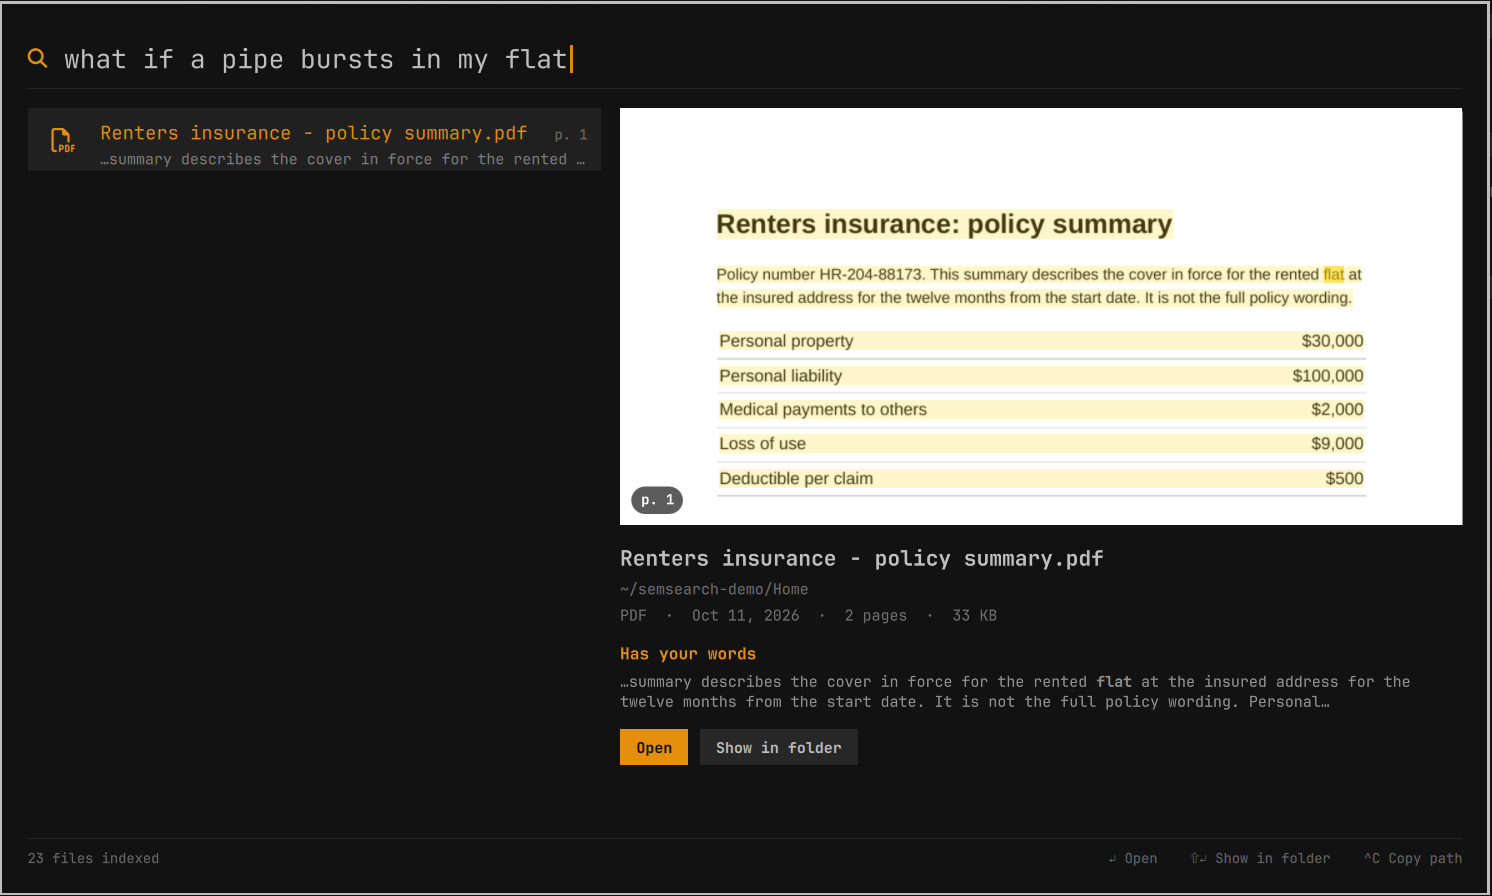
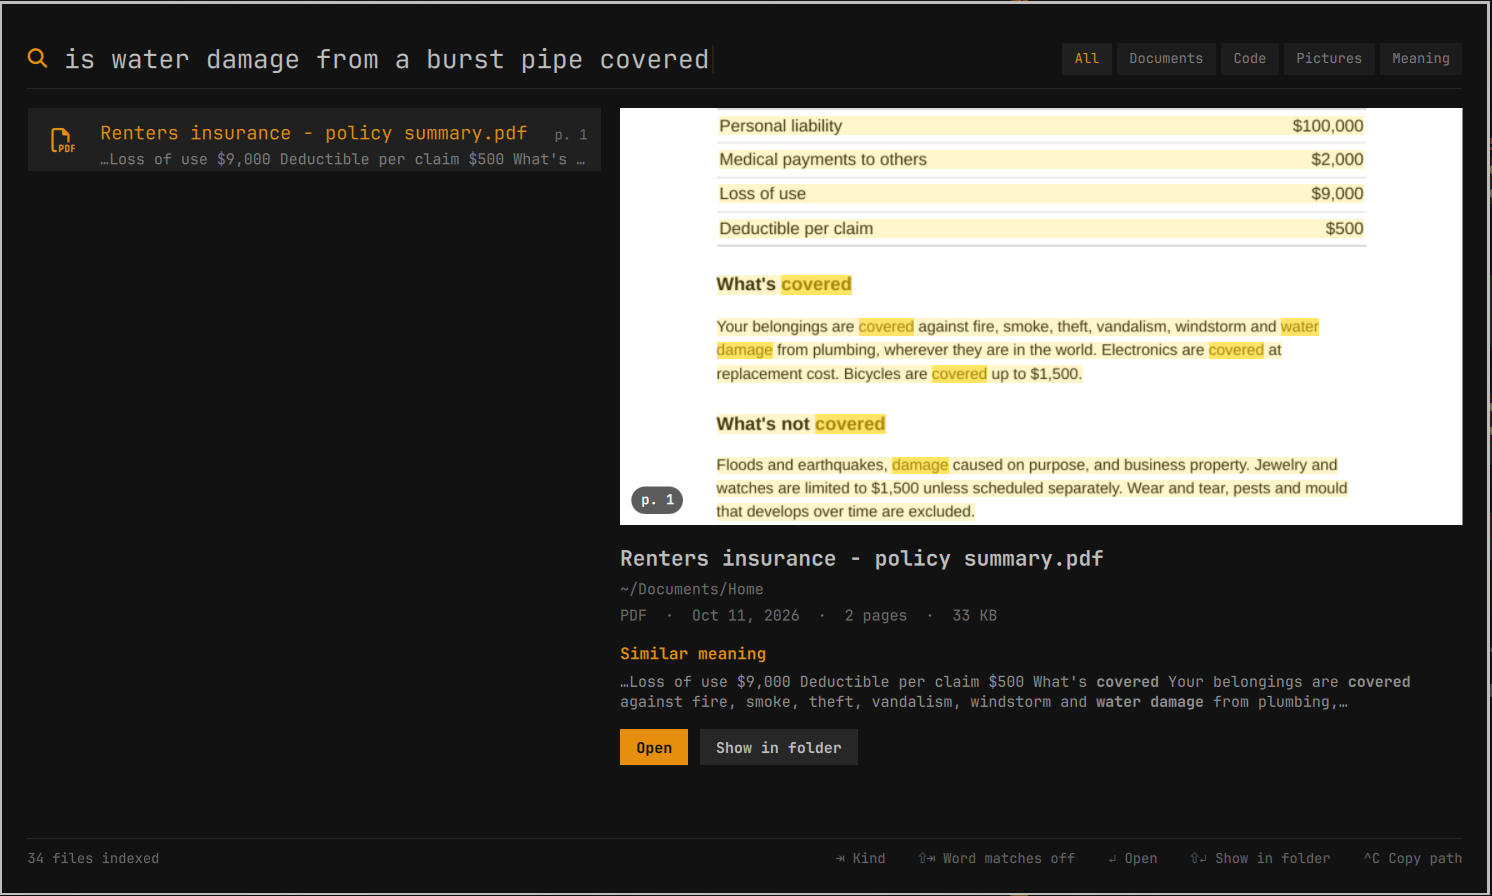
Tidy for publication; fresh screenshots; floors scale with index size
Clean-up: imports at the top, no shadowed names in search(), the test-only
listing() helper removed, icon glyphs written as escapes, lint and shellcheck
clean.

Behaviour: a kind with only a few rows borrows the index's mean vector
instead of going uncentred (five pictures used to match every query), and the
similarity floors are scaled by index size, so a small collection no longer
answers "nothing matches" to a question it can answer.

Screenshots are from a made-up home directory.

diff --git a/SemSearch.qml b/SemSearch.qml
@@ -181,7 +181,8 @@ Item {
   function openHit() {
     if (!root.hit) return
     // Opens a PDF at the matching page and source at the matching line.
-    Util.execArgv(["setsid", "uwsm-app", "--", root.openScript, root.hit.path, String(root.hit.page), String(root.hit.line)])
+    Util.execArgv(["setsid", "uwsm-app", "--", root.openScript,
+                   root.hit.path, String(root.hit.page), String(root.hit.line)])
     root.dismiss()
   }
 
@@ -203,12 +204,13 @@ Item {
 
   // --- Presentation ---------------------------------------------------------
 
+  // Nerd Font glyphs: code, image, PDF, word processor, plain text.
   function glyph(row) {
-    if (row.line) return ""
-    if (row.image) return ""
-    if (row.ext === "pdf") return ""
-    if (row.ext === "docx" || row.ext === "odt") return ""
-    return ""
+    if (row.line) return "\uf121"
+    if (row.image) return "\uf1c5"
+    if (row.ext === "pdf") return "\uf1c1"
+    if (row.ext === "docx" || row.ext === "odt") return "\uf1c2"
+    return "\uf15c"
   }
 
   function reason(why) {
@@ -380,7 +382,7 @@ Item {
           Text {
             id: lens
             anchors.verticalCenter: parent.verticalCenter
-            text: ""
+            text: "\uf002"
             color: root.accent
             font.family: root.fontFamily
             font.pixelSize: Style.font.heading
@@ -616,7 +618,6 @@ Item {
               anchors.left: parent.left
               anchors.right: parent.right
               height: Math.round(parent.height * 0.58)
-
               clip: true
 
               // A text passage fills the stage and a picture is fitted into it.
@@ -698,7 +699,6 @@ Item {
                   wrapMode: Text.Wrap
                   elide: Text.ElideRight
                 }
-
               }
 
               Rectangle {

diff --git a/tests/test_semsearchd.py b/tests/test_semsearchd.py
@@ -20,8 +20,8 @@ def test_windows_cover_every_word_and_overlap():
     spans = sd.windows(400, size=180, overlap=30)
     assert spans[0] == (0, 180)
     assert spans[-1][1] == 400
-    for (a0, a1), (b0, b1) in zip(spans, spans[1:]):
-        assert b0 == a1 - 30
+    for (_, end), (start, _) in zip(spans, spans[1:]):
+        assert start == end - 30
 
 
 def test_windows_short_and_empty():
@@ -197,6 +197,19 @@ def test_similarity_is_measured_from_the_corpus_mean(tmp_path):
     hits = index.search("pipe")
     assert [h["name"] for h in hits] == ["leak.txt"]
 
+    # One picture is too few for a mean of its own, so it borrows the index's.
+    # Left uncentred it would score 0.99 against every query alike.
+    from PIL import Image
+
+    Image.new("RGB", (80, 80), "orange").save(tmp_path / "IMG_1.png")
+    index.index_file(str(tmp_path / "IMG_1.png"))
+
+    def score(query):
+        return max((h["score"] for h in index.search(query, kind="image")), default=0)
+
+    assert score("sunset") > 0.9
+    assert score("pipe") < 0.5
+
 
 def test_model_is_unloaded_only_after_the_idle_period():
     embedder = sd.LlamaEmbedder(dict(sd.DEFAULTS, idle_unload_seconds=300))
@@ -343,7 +356,7 @@ def test_listing_skips_hidden_excluded_and_unknown_files(tmp_path):
                 "node_modules/pkg/index.js", "go/pkg/mod/lib.go", "go/src/main.go", "movie.mkv"):
         write(tmp_path / rel)
     indexer = make_indexer(tmp_path)
-    found = {os.path.relpath(p, tmp_path) for p in indexer.listing(str(tmp_path))}
+    found = {os.path.relpath(p, tmp_path) for p in indexer.scan(str(tmp_path))[0]}
     assert found == {"notes.md", "sub/deep/app.py", "photo.png", "go/src/main.go"}
     assert indexer.wanted(str(tmp_path / "notes.md"))
     assert not indexer.wanted(str(tmp_path / ".config/tool.md"))
@@ -361,13 +374,13 @@ def test_inside_a_repository_only_what_git_does_not_ignore(tmp_path):
     write(tmp_path / "loose.txt")
 
     indexer = make_indexer(tmp_path)
-    found = {os.path.relpath(p, tmp_path) for p in indexer.listing(str(tmp_path))}
+    found = {os.path.relpath(p, tmp_path) for p in indexer.scan(str(tmp_path))[0]}
     # Untracked but not ignored counts: it is a file someone is writing.
     assert found == {"loose.txt", "project/src/main.py", "project/README.md", "project/untracked.py"}
     assert not indexer.wanted(str(repo / "build/out.js"))
     assert indexer.wanted(str(repo / "src/main.py"))
     # A folder created later inside the repository is listed the same way.
-    assert indexer.listing(str(repo / "build")) == []
+    assert indexer.scan(str(repo / "build"))[0] == []
 
 
 def test_watched_directories_are_every_folder_a_file_could_appear_in(tmp_path):

diff --git a/README.md b/README.md
@@ -9,7 +9,8 @@ through [llama.cpp](https://github.com/ggml-org/llama.cpp), index in SQLite.
 
 ## Install
 
-Needs Omarchy 4 on x86-64 and about 1 GB of disk.
+Needs Omarchy 4 on x86-64 and about 1 GB of disk. `uv` and `poppler` are the
+only packages Omarchy does not already ship.
 
 ```bash
 sudo pacman -S --needed uv poppler
@@ -70,6 +71,10 @@ The kind only filters; the same hits are found either way. Hits are listed
 most similar first, whatever their kind, with word matches above them when
 those are on.
 
+| Code, by what it does | Pictures, by what they show |
+|---|---|
+| ![A code hit with its block and line numbers](docs/code.png) | ![Pictures matching "a chart"](docs/pictures.png) |
+
 From a terminal: `semsearch status`, `semsearch rescan`, `semsearch <query>`,
 with `-w` to include word matches and `-k text|code|image` to narrow (in the
 plugin folder).
@@ -124,6 +129,10 @@ min_image_similarity = 0.20
 min_code_similarity = 0.35
 ```
 
+The three `min_` values are the lowest similarity that counts as a match, as
+tuned on an index of about 15,000 passages and 4,000 pictures. They are
+scaled down for a smaller index and up for a larger one, by up to 30%.
+
 ## How it works
 
 `semsearchd` embeds every passage, code block and picture and stores text and
@@ -158,8 +167,8 @@ first start `uv` installs `numpy`, `inotify-simple` and `pillow` into its cache.
 
 ## Privacy
 
-The index holds the text of your documents in plain SQLite in your home
-directory. The daemon makes no network connections beyond a llama.cpp server
+The index holds the text of your documents and source files in plain SQLite
+in your home directory. The daemon makes no network connections beyond a llama.cpp server
 on a random `127.0.0.1` port; only `install.sh` downloads anything.
 
 ## Development
